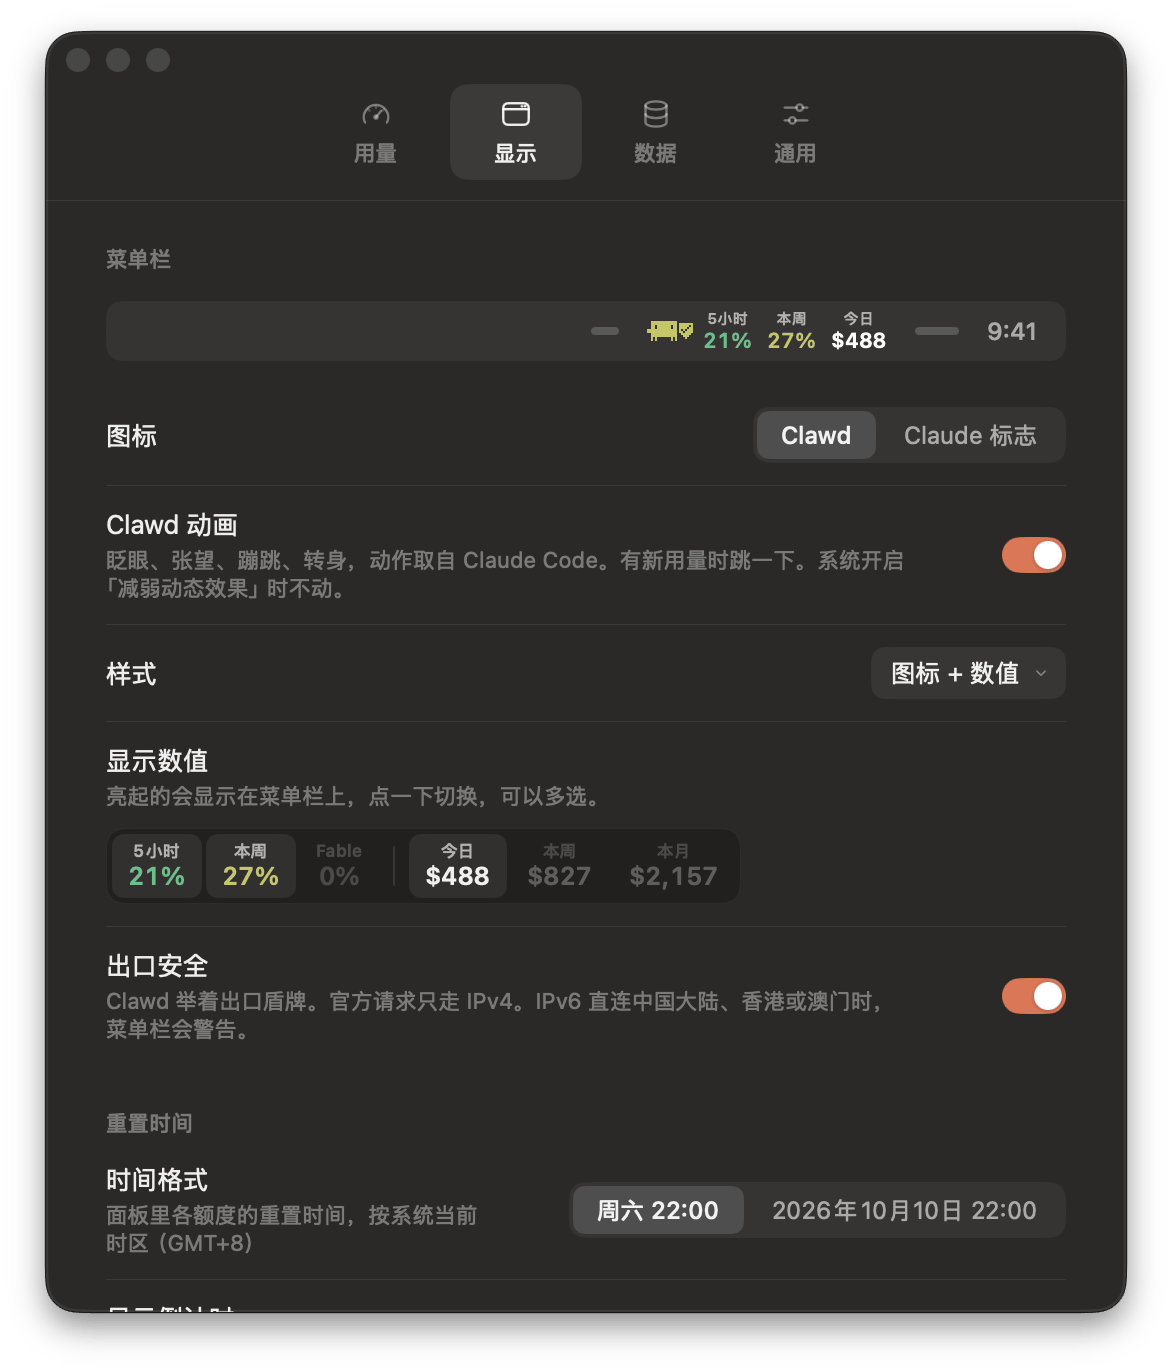
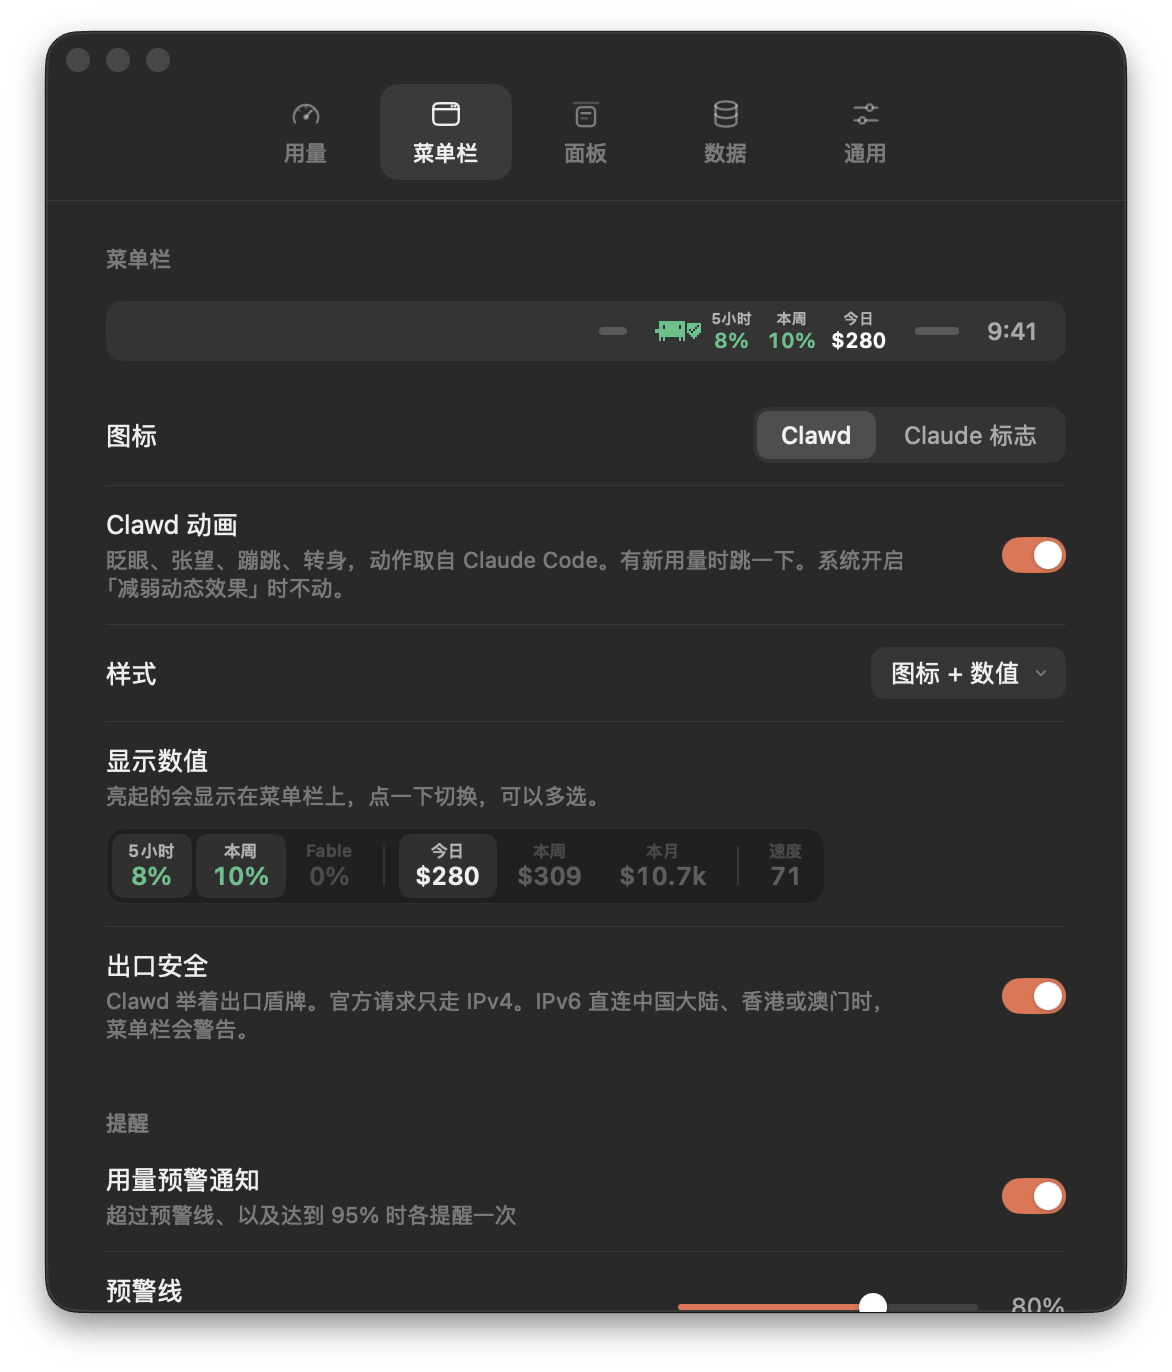
Describe folding and the Panel settings for 1.6.2, and retake the screenshots.
The screenshots predated output speed. The panel, the hero and the menu
bar settings are taken again, Settings > Display becomes Settings > Menu
Bar, and two new shots show the Panel settings and a simple panel with
one line per limit and output speed folded. The hero canvas grows to
1281px to keep its margins around the taller panel.

The release notes no longer say the app is only in Chinese; it follows
the system language and can be switched in Settings > General.

diff --git a/CHANGELOG.md b/CHANGELOG.md
@@ -6,6 +6,22 @@ and this project adheres to [Semantic Versioning](https://semver.org/).
 
 ## [Unreleased]
 
+## [1.6.2] - 2026-10-25
+
+### Added
+
+- Limits, Output speed and Spend fold away. Click a section's title to collapse it to one line with a summary beside the title, such as "5-hour 4%  Week 7%  Fable 0%", "84 tok/s" or "Week $257.88", and click again to bring it back. The panel remembers which sections are folded. Pointing at a title shows the arrow. When new official numbers cannot be fetched, folded limits leave the percentages uncolored and say why, such as "Login expired", so old numbers don't read as current.
+- A Panel tab in Settings chooses what the panel shows. Limits, Output speed and Spend can each be Detailed, Simple or Hidden; the exit row can show always or only when something is wrong; and the process list can be turned off. Changes apply as you make them, so the panel can show nothing but the limits.
+- Simple layouts. Limits put each limit on one line with its name, bar and percentage, and the reset time moves to the tooltip. Output speed shows the last 5 minutes and the hour's line. Spend keeps the amount, the estimate and the last 14 days.
+
+### Changed
+
+- Empty sections say what they are waiting for in a short note instead of drawing empty charts and dashes. With no replies in the last hour, Output speed no longer draws an empty chart with a lone 100 tok/s line. Limits without official numbers explain why and offer the sign-in button when one is needed, and This week before the weekly limit has synced says so instead of leaving a blank space under the tabs.
+- Pointing at a limit bar shows the safe line in the line under the bar, in place of the reset time. The floating label it replaces covered the title of the row above.
+- Limits no longer wait for the local index, so they show during the first scan and when no Claude Code sessions are found.
+- The dates of the spend period sit on the section's title line, which saves a line.
+- Settings › Display is now Settings › Menu Bar. The reset time format, the countdown and the currency moved to the Panel tab, where Output speed's "Every reply" is now Detailed.
+
 ## [1.6.1] - 2026-10-25
 
 ### Added

diff --git a/README.md b/README.md
@@ -18,7 +18,7 @@ plus what your Claude Code sessions would cost at API prices. Native, private, a
 
 <br>
 
-<img src="docs/images/en/hero.png" width="880" alt="The Claude Usage Monitor panel under the menu bar, next to its Display settings">
+<img src="docs/images/en/hero.png" width="880" alt="The Claude Usage Monitor panel under the menu bar, next to its Menu Bar settings">
 
 </div>
 
@@ -36,8 +36,8 @@ plus what your Claude Code sessions would cost at API prices. Native, private, a
 </td>
 <td width="50%" valign="top">
 
-**A menu bar that says what it shows**<br>
-5-hour by default. Add the week, Fable, or cost, and each value gets its own compact column with a small label, colored by how full it is.
+**Only what you want to see**<br>
+The menu bar shows the 5-hour limit by default. Add the week, Fable, or cost, and each value gets its own compact column with a small label, colored by how full it is. Each section of the panel can be Detailed, Simple, or Hidden, and a click on its title folds it away.
 
 </td>
 </tr>
@@ -91,11 +91,21 @@ Renews the Claude Code login the way Claude Code does, with the same locks, so t
 <tr>
 <td width="40%" align="center" valign="top">
 <img src="docs/images/en/panel.png" alt="Menu bar panel"><br>
-<sub><b>The panel</b> · limits with safe lines, spend, and processes</sub>
+<sub><b>The panel</b> · limits with safe lines, output speed, and spend</sub>
 </td>
 <td width="60%" align="center" valign="top">
-<img src="docs/images/en/settings-display.png" alt="Settings, Display"><br>
-<sub><b>Settings › Display</b> · pick what the menu bar shows</sub>
+<img src="docs/images/en/settings-panel.png" alt="Settings, Panel"><br>
+<sub><b>Settings › Panel</b> · each section Detailed, Simple, or Hidden</sub>
+</td>
+</tr>
+<tr>
+<td align="center" valign="top">
+<img src="docs/images/en/panel-simple.png" alt="A simple panel"><br>
+<sub><b>Simple</b> · one line per limit, output speed folded to a summary</sub>
+</td>
+<td align="center" valign="top">
+<img src="docs/images/en/settings-menubar.png" alt="Settings, Menu Bar"><br>
+<sub><b>Settings › Menu Bar</b> · pick what the menu bar shows</sub>
 </td>
 </tr>
 <tr>

diff --git a/README.zh-CN.md b/README.zh-CN.md
@@ -18,7 +18,7 @@
 
 <br>
 
-<img src="docs/images/zh/hero.png" width="880" alt="菜单栏下方的 Claude Usage Monitor 面板，以及它的显示设置">
+<img src="docs/images/zh/hero.png" width="880" alt="菜单栏下方的 Claude Usage Monitor 面板，以及它的菜单栏设置">
 
 </div>
 
@@ -36,8 +36,8 @@
 </td>
 <td width="50%" valign="top">
 
-**菜单栏上一眼看懂**<br>
-默认只显示 5 小时；也可以加上本周、Fable、费用。每个数值一列、上方有小标签，按占用程度上色。
+**只放你要看的**<br>
+菜单栏默认只显示 5 小时，也可以加上本周、Fable、费用，每个数值一列、上方有小标签，按占用程度上色。面板里每一块都能选详细、简洁或不显示，点标题就能收起。
 
 </td>
 </tr>
@@ -91,11 +91,21 @@
 <tr>
 <td width="40%" align="center" valign="top">
 <img src="docs/images/zh/panel.png" alt="菜单栏面板"><br>
-<sub><b>面板</b> · 额度与安全线、花费与进程</sub>
+<sub><b>面板</b> · 额度与安全线、输出速度、花费</sub>
 </td>
 <td width="60%" align="center" valign="top">
-<img src="docs/images/zh/settings-display.png" alt="设置 › 显示"><br>
-<sub><b>设置 › 显示</b> · 选择菜单栏上显示什么</sub>
+<img src="docs/images/zh/settings-panel.png" alt="设置 › 面板"><br>
+<sub><b>设置 › 面板</b> · 每一块选详细、简洁或不显示</sub>
+</td>
+</tr>
+<tr>
+<td align="center" valign="top">
+<img src="docs/images/zh/panel-simple.png" alt="简洁的面板"><br>
+<sub><b>简洁</b> · 限额一项一行，输出速度收起成一行摘要</sub>
+</td>
+<td align="center" valign="top">
+<img src="docs/images/zh/settings-menubar.png" alt="设置 › 菜单栏"><br>
+<sub><b>设置 › 菜单栏</b> · 选择菜单栏上显示什么</sub>
 </td>
 </tr>
 <tr>
